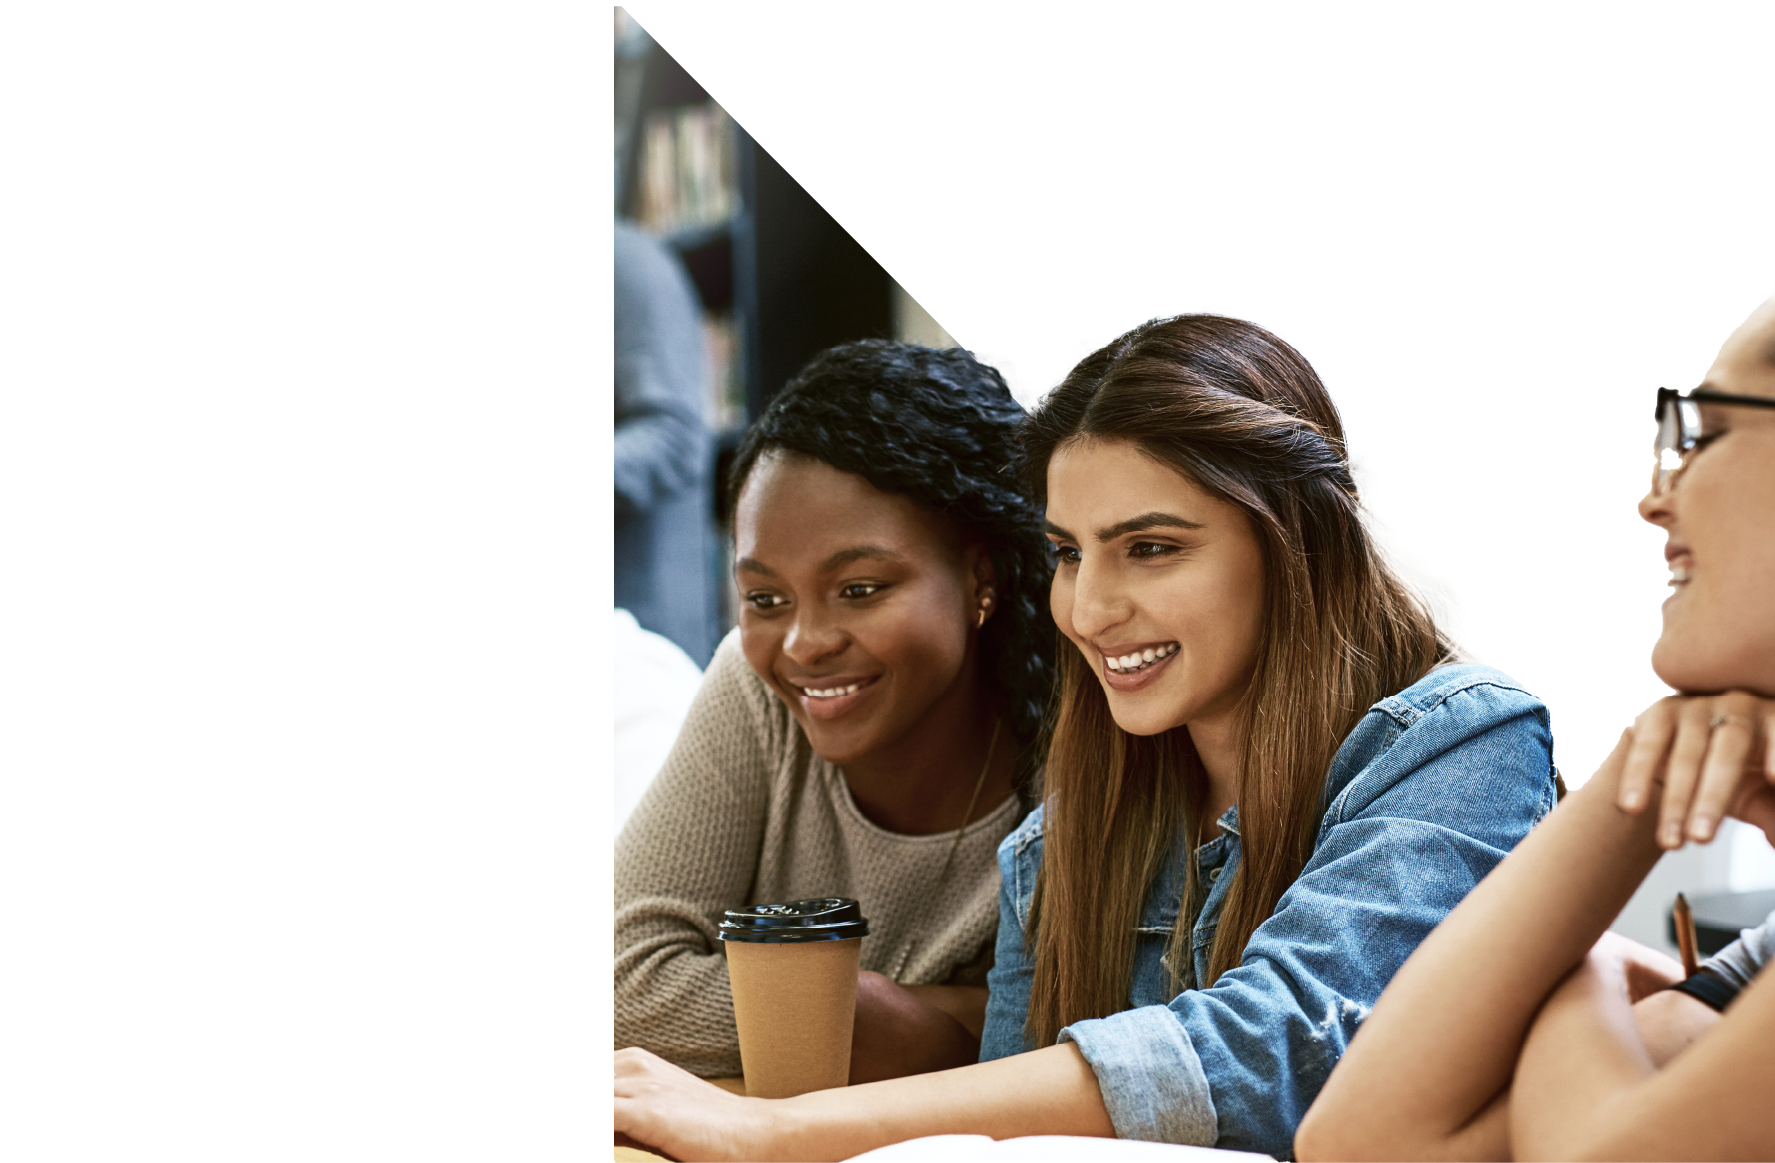
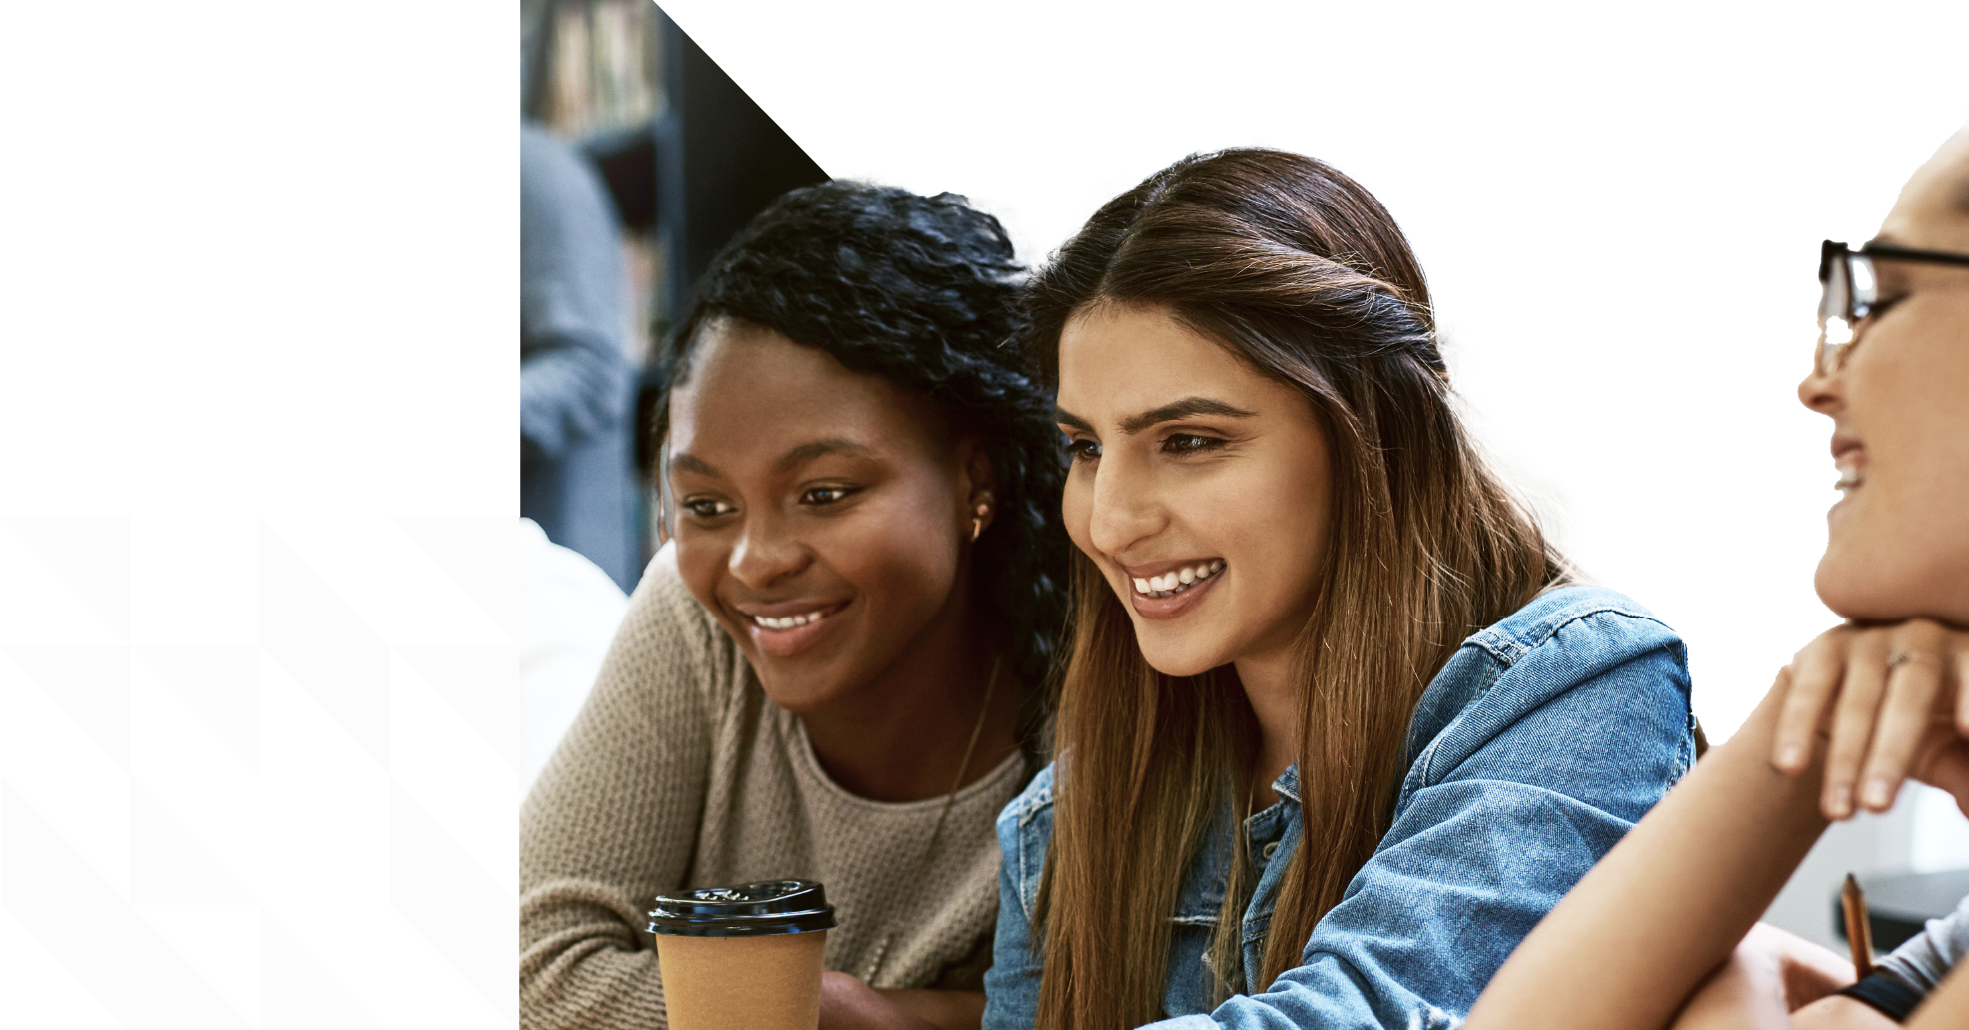
Add files via upload

diff --git a/index.html b/index.html
@@ -67,11 +67,11 @@
 
   /* alturas "aleatórias" espalhadas por todo o banner, tamanho em vw
      (fixo e previsível — não depende de cadeia de % de altura) */
-  .speed-row.r1{ top:6%;  height:4.6cqw; opacity:.75; }
-  .speed-row.r2{ top:24%; height:3.2cqw; opacity:.85; }
-  .speed-row.r3{ top:46%; height:5.6cqw; opacity:.65; }
-  .speed-row.r4{ top:68%; height:3.6cqw; opacity:.8; }
-  .speed-row.r5{ top:87%; height:4.2cqw; opacity:.7; }
+  .speed-row.r1{ top:6%;  height:4.6cqw; opacity:.88; }
+  .speed-row.r2{ top:24%; height:3.2cqw; opacity:1; }
+  .speed-row.r3{ top:46%; height:5.6cqw; opacity:.78; }
+  .speed-row.r4{ top:68%; height:3.6cqw; opacity:.94; }
+  .speed-row.r5{ top:87%; height:4.2cqw; opacity:.84; }
 
   .speed-row.r1 .speed-track{ animation-duration:6.2s; }
   .speed-row.r2 .speed-track{ animation-duration:4.4s; }
@@ -107,6 +107,8 @@
   .headline-img img{ height:100%; width:auto; display:block; }
 
   .cta{
+    align-self:flex-end;
+    margin-right:1cqw;
     display:inline-flex;
     align-items:center;
     gap:.5em;
@@ -150,20 +152,20 @@
     height:100%;
     width:auto;
     display:block;
-    transform:translateX(0);
+    transform:translateX(0) scale(1);
     opacity:1;
-    transition:transform .8s cubic-bezier(.62,.05,.32,1), opacity .5s ease;
+    transition:transform 1.1s cubic-bezier(.62,.05,.32,1), opacity .7s ease;
   }
 
-  /* estado antes de entrar: fora de cena, à esquerda */
+  /* estado antes de entrar: fora de cena, à esquerda, um pouco menor */
   .people-layer img.is-hidden-left{
-    transform:translateX(-25%);
+    transform:translateX(-55%) scale(.92);
     opacity:0;
     pointer-events:none;
   }
-  /* estado ao sair: fora de cena, à direita */
+  /* estado ao sair: fora de cena, à direita, um pouco maior (efeito de saída) */
   .people-layer img.is-hidden-right{
-    transform:translateX(25%);
+    transform:translateX(55%) scale(1.06);
     opacity:0;
     pointer-events:none;
   }
